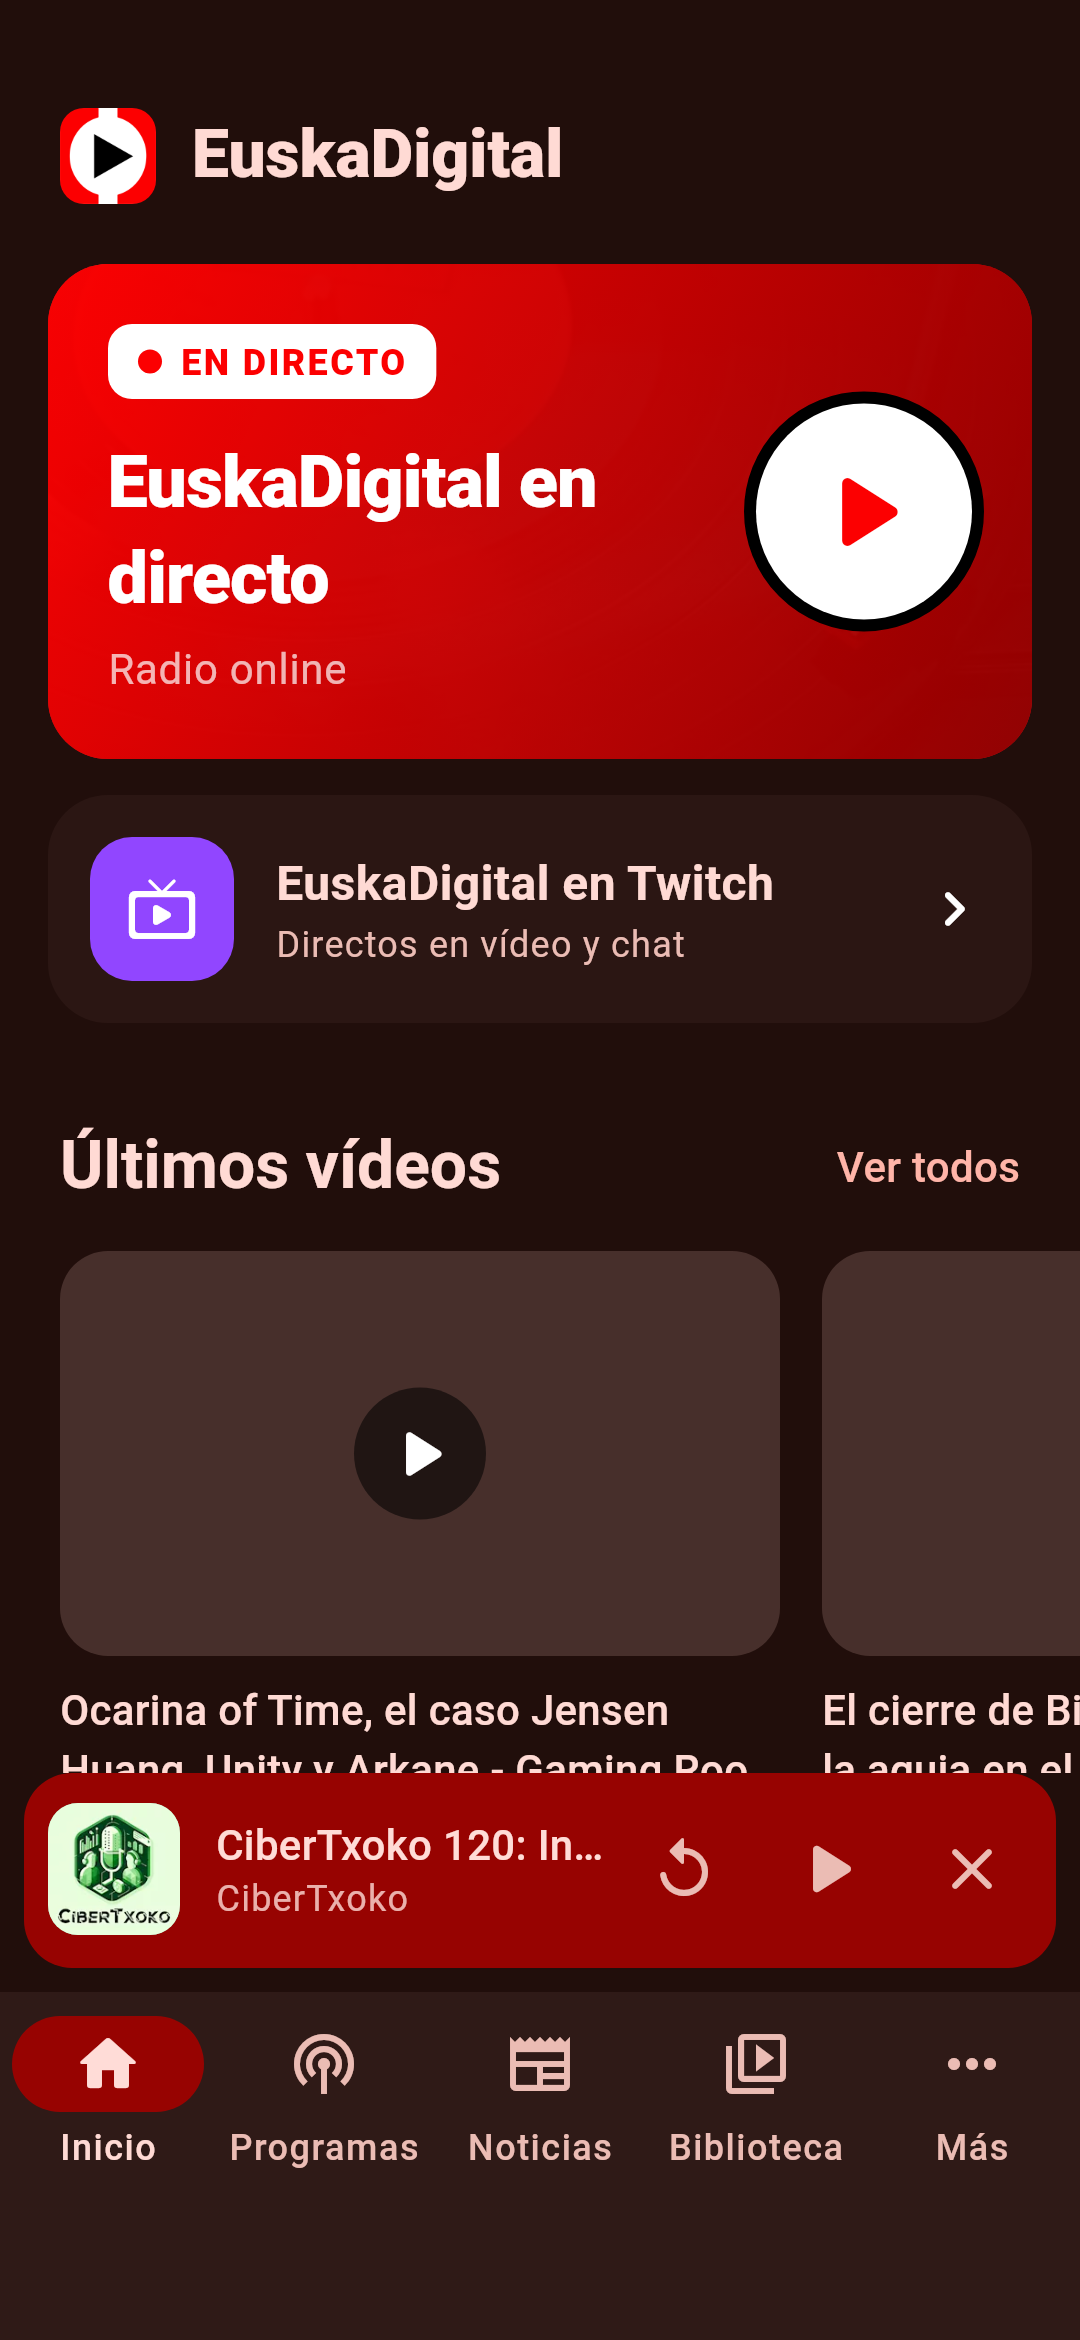
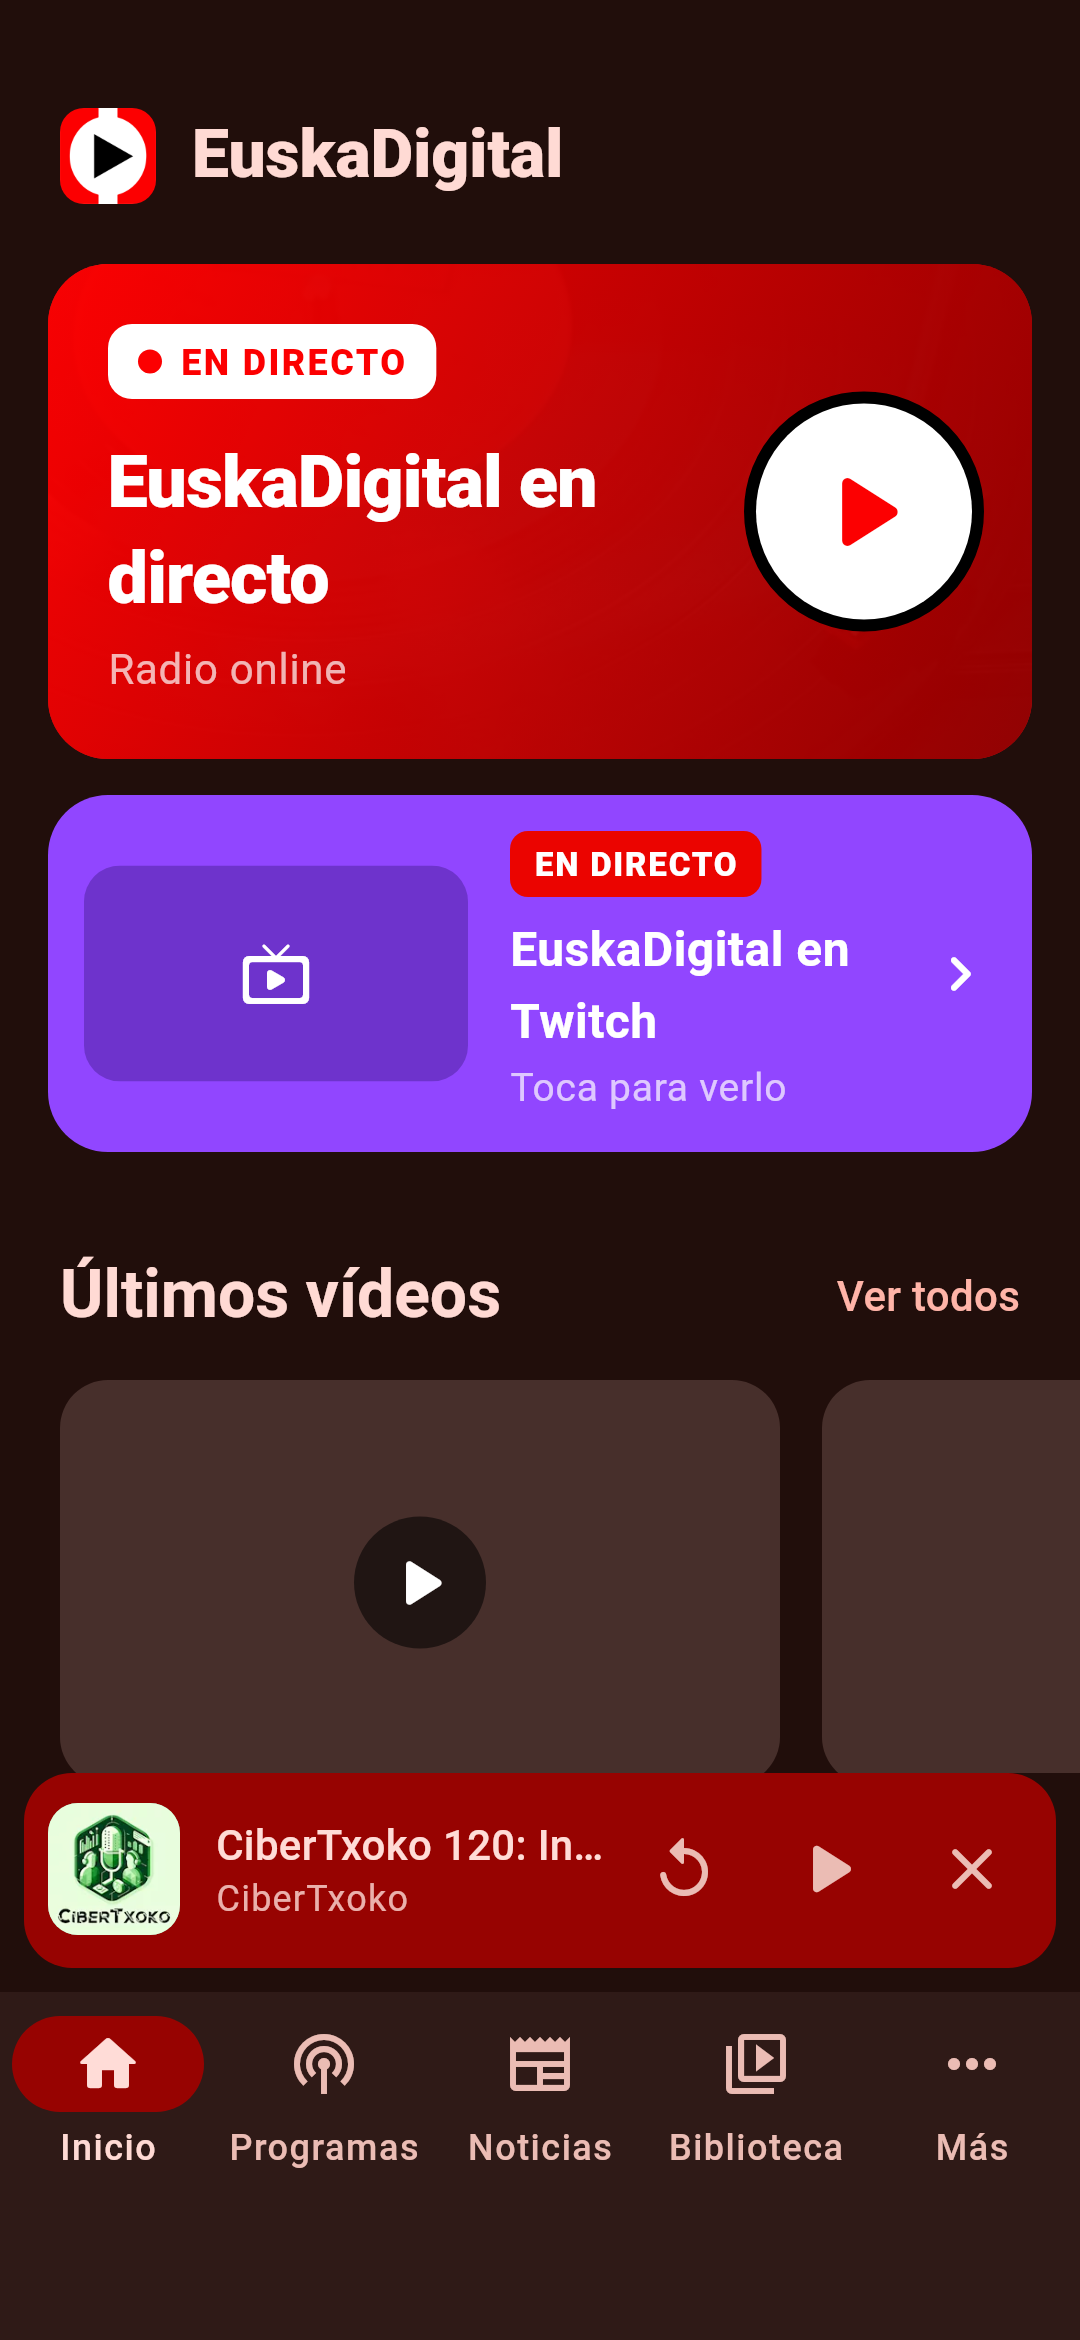
Twitch en Inicio solo durante los directos
- Servicio que detecta si el canal emite mediante la vista previa
  pública del CDN de Twitch (sin claves); comprueba al abrir, al volver
  a la app y cada 2 minutos en primer plano
- La tarjeta aparece solo en directo, con la imagen de la emisión
- El acceso a Twitch sigue en Más
- Tests de la detección con respuestas simuladas

Claude-Session: https://claude.ai/code/session_016dLWWhA75jkREqA1LiHKKV

Changed region(s): [[0.0306, 0.312, 1.0, 0.7799], [0.7639, 0.6863, 1.0, 0.7799]]

diff --git a/lib/ui/widgets/twitch_card.dart b/lib/ui/widgets/twitch_card.dart
@@ -1,10 +1,13 @@
+import 'package:cached_network_image/cached_network_image.dart';
 import 'package:flutter/material.dart';
 import 'package:provider/provider.dart';
 
 import '../../config/app_config.dart';
+import '../../services/twitch_live_service.dart';
 import '../screens/twitch_screen.dart';
 
-/// Acceso al canal de Twitch desde Inicio.
+/// Tarjeta de Inicio que solo aparece mientras el canal de Twitch está en
+/// directo, con la vista previa de la emisión.
 class TwitchCard extends StatelessWidget {
   const TwitchCard({super.key});
 
@@ -13,41 +16,87 @@ class TwitchCard extends StatelessWidget {
   @override
   Widget build(BuildContext context) {
     final twitch = context.read<AppConfig>().twitch;
-    if (twitch == null) return const SizedBox.shrink();
+    final live = context.watch<TwitchLiveService?>();
+    final visible = twitch != null && live != null && live.isLive;
     final theme = Theme.of(context);
-    return Padding(
-      padding: const EdgeInsets.fromLTRB(16, 12, 16, 0),
-      child: Card(
-        child: InkWell(
-          onTap: () => TwitchScreen.open(context, twitch),
-          child: Padding(
-            padding: const EdgeInsets.all(14),
-            child: Row(
-              children: [
-                Container(
-                  width: 48,
-                  height: 48,
-                  decoration: BoxDecoration(color: twitchPurple, borderRadius: BorderRadius.circular(14)),
-                  child: const Icon(Icons.live_tv_rounded, color: Colors.white),
-                ),
-                const SizedBox(width: 14),
-                Expanded(
-                  child: Column(
-                    crossAxisAlignment: CrossAxisAlignment.start,
-                    children: [
-                      Text(twitch.title, style: theme.textTheme.titleMedium),
-                      if (twitch.subtitle != null)
-                        Text(twitch.subtitle!,
-                            style: theme.textTheme.bodySmall?.copyWith(color: theme.colorScheme.onSurfaceVariant)),
-                    ],
+
+    return AnimatedSize(
+      duration: const Duration(milliseconds: 300),
+      curve: Curves.easeOutCubic,
+      child: !visible
+          ? const SizedBox(width: double.infinity)
+          : Padding(
+              padding: const EdgeInsets.fromLTRB(16, 12, 16, 0),
+              child: Card(
+                color: twitchPurple,
+                child: InkWell(
+                  onTap: () => TwitchScreen.open(context, twitch),
+                  child: Padding(
+                    padding: const EdgeInsets.all(12),
+                    child: Row(
+                      children: [
+                        ClipRRect(
+                          borderRadius: BorderRadius.circular(12),
+                          child: SizedBox(
+                            width: 128,
+                            child: AspectRatio(
+                              aspectRatio: 16 / 9,
+                              child: live.previewUrl == null
+                                  ? const ColoredBox(
+                                      color: Color(0xFF6E33CC),
+                                      child: Icon(Icons.live_tv_rounded, color: Colors.white),
+                                    )
+                                  : CachedNetworkImage(
+                                      imageUrl: live.previewUrl!,
+                                      fit: BoxFit.cover,
+                                      placeholder: (_, _) => const ColoredBox(color: Color(0xFF6E33CC)),
+                                      errorWidget: (_, _, _) => const ColoredBox(
+                                        color: Color(0xFF6E33CC),
+                                        child: Icon(Icons.live_tv_rounded, color: Colors.white),
+                                      ),
+                                    ),
+                            ),
+                          ),
+                        ),
+                        const SizedBox(width: 14),
+                        Expanded(
+                          child: Column(
+                            crossAxisAlignment: CrossAxisAlignment.start,
+                            children: [
+                              Container(
+                                padding: const EdgeInsets.symmetric(horizontal: 8, vertical: 3),
+                                decoration: BoxDecoration(
+                                  color: const Color(0xFFEB0400),
+                                  borderRadius: BorderRadius.circular(6),
+                                ),
+                                child: const Text(
+                                  'EN DIRECTO',
+                                  style: TextStyle(
+                                    color: Colors.white,
+                                    fontWeight: FontWeight.w800,
+                                    fontSize: 11,
+                                    letterSpacing: 0.6,
+                                  ),
+                                ),
+                              ),
+                              const SizedBox(height: 6),
+                              Text(
+                                twitch.title,
+                                maxLines: 2,
+                                overflow: TextOverflow.ellipsis,
+                                style: theme.textTheme.titleMedium?.copyWith(color: Colors.white),
+                              ),
+                              const Text('Toca para verlo', style: TextStyle(color: Colors.white70, fontSize: 13)),
+                            ],
+                          ),
+                        ),
+                        const Icon(Icons.chevron_right_rounded, color: Colors.white),
+                      ],
+                    ),
                   ),
                 ),
-                const Icon(Icons.chevron_right_rounded),
-              ],
+              ),
             ),
-          ),
-        ),
-      ),
     );
   }
 }

diff --git a/lib/services/twitch_live_service.dart b/lib/services/twitch_live_service.dart
@@ -1,0 +1,91 @@
+import 'dart:async';
+
+import 'package:flutter/widgets.dart';
+import 'package:http/http.dart' as http;
+
+/// Sabe si el canal de Twitch está emitiendo, sin claves de API.
+///
+/// Twitch publica una vista previa del directo de cada canal en su CDN. Si
+/// el canal no emite, esa dirección redirige a una imagen genérica de
+/// «desconectado»; si emite, devuelve la imagen. Se comprueba al abrir la
+/// app, al volver a ella y cada pocos minutos mientras está en primer plano.
+class TwitchLiveService extends ChangeNotifier with WidgetsBindingObserver {
+  TwitchLiveService(this.channel, {http.Client? client, bool autoStart = true})
+      : _client = client ?? http.Client() {
+    if (autoStart) {
+      WidgetsBinding.instance.addObserver(this);
+      check();
+      _startTimer();
+    }
+  }
+
+  static const _interval = Duration(minutes: 2);
+
+  final String channel;
+  final http.Client _client;
+  Timer? _timer;
+  bool _live = false;
+  DateTime _checkedAt = DateTime.fromMillisecondsSinceEpoch(0);
+
+  bool get isLive => _live;
+
+  /// Vista previa del directo (cambia la URL en cada comprobación para no
+  /// mostrar una imagen antigua de la caché).
+  String? get previewUrl => debugDisablePreview
+      ? null
+      : 'https://static-cdn.jtvnw.net/previews-ttv/live_user_$channel-640x360.jpg?t=${_checkedAt.millisecondsSinceEpoch ~/ 1000}';
+
+  /// Sin vista previa (las capturas no pueden cargar imágenes de red).
+  @visibleForTesting
+  bool debugDisablePreview = false;
+
+  String get _probeUrl => 'https://static-cdn.jtvnw.net/previews-ttv/live_user_$channel-80x45.jpg';
+
+  Future<void> check() async {
+    try {
+      final req = http.Request('GET', Uri.parse(_probeUrl))..followRedirects = false;
+      final res = await _client.send(req).timeout(const Duration(seconds: 15));
+      await res.stream.drain<void>();
+      final live = res.statusCode == 200 && (res.headers['content-type'] ?? '').startsWith('image/');
+      _checkedAt = DateTime.now();
+      if (live != _live) {
+        _live = live;
+        notifyListeners();
+      } else if (live) {
+        notifyListeners(); // refrescar la vista previa
+      }
+    } catch (e) {
+      // Sin conexión: se mantiene el último estado conocido.
+      debugPrint('No se ha podido comprobar el directo de Twitch: $e');
+    }
+  }
+
+  /// Fuerza el estado (capturas y tests).
+  @visibleForTesting
+  void debugSetLive(bool live) {
+    _live = live;
+    notifyListeners();
+  }
+
+  void _startTimer() {
+    _timer?.cancel();
+    _timer = Timer.periodic(_interval, (_) => check());
+  }
+
+  @override
+  void didChangeAppLifecycleState(AppLifecycleState state) {
+    if (state == AppLifecycleState.resumed) {
+      check();
+      _startTimer();
+    } else if (state == AppLifecycleState.paused) {
+      _timer?.cancel();
+    }
+  }
+
+  @override
+  void dispose() {
+    _timer?.cancel();
+    WidgetsBinding.instance.removeObserver(this);
+    super.dispose();
+  }
+}

diff --git a/test/screenshots/screenshots_test.dart b/test/screenshots/screenshots_test.dart
@@ -16,6 +16,7 @@ import 'package:euskadigital/services/feed_repository.dart';
 import 'package:euskadigital/services/library_store.dart';
 import 'package:euskadigital/services/player_service.dart';
 import 'package:euskadigital/services/settings_store.dart';
+import 'package:euskadigital/services/twitch_live_service.dart';
 import 'package:euskadigital/ui/app_shell.dart';
 import 'package:euskadigital/ui/screens/home_screen.dart';
 import 'package:euskadigital/ui/screens/player_screen.dart';
@@ -87,6 +88,7 @@ void main() {
   late FeedRepository feeds;
   late PlayerService player;
   late SharedPreferences prefs;
+  late TwitchLiveService twitchLive;
 
   setUpAll(() async {
     TestWidgetsFlutterBinding.ensureInitialized();
@@ -148,6 +150,10 @@ void main() {
     final continuing2 = feeds.state(config.allPrograms[0].id).items[0];
     library.saveProgress(continuing2, continuing2.duration! * 0.7, continuing2.duration);
     player = PlayerService(config, library, settings);
+    // Capturas con el canal «en directo» para mostrar la tarjeta.
+    twitchLive = TwitchLiveService('euskadigital', autoStart: false)
+      ..debugDisablePreview = true
+      ..debugSetLive(config.twitch != null);
   });
 
   Widget app(ThemeMode mode) => MultiProvider(
@@ -157,6 +163,7 @@ void main() {
           ChangeNotifierProvider.value(value: library),
           ChangeNotifierProvider.value(value: feeds),
           ChangeNotifierProvider(create: (_) => AlertsStore(prefs)),
+          ChangeNotifierProvider<TwitchLiveService?>.value(value: twitchLive),
           ChangeNotifierProvider(create: (_) => DownloadManager(library, settings)),
           ChangeNotifierProvider.value(value: player),
         ],

diff --git a/test/twitch_live_service_test.dart b/test/twitch_live_service_test.dart
@@ -1,0 +1,40 @@
+import 'package:euskadigital/services/twitch_live_service.dart';
+import 'package:flutter_test/flutter_test.dart';
+import 'package:http/http.dart' as http;
+import 'package:http/testing.dart';
+
+void main() {
+  TestWidgetsFlutterBinding.ensureInitialized();
+
+  TwitchLiveService service(http.Response Function(http.Request) respond) =>
+      TwitchLiveService('euskadigital', client: MockClient((r) async => respond(r)), autoStart: false);
+
+  test('en directo cuando la vista previa devuelve una imagen', () async {
+    final s = service((_) => http.Response.bytes([0xFF, 0xD8], 200, headers: {'content-type': 'image/jpeg'}));
+    await s.check();
+    expect(s.isLive, isTrue);
+  });
+
+  test('desconectado cuando Twitch redirige a la imagen genérica', () async {
+    final s = service((_) => http.Response('', 302, headers: {
+          'location': 'https://static-cdn.jtvnw.net/ttv-static/404_preview-80x45.jpg',
+          'content-type': 'text/html',
+        }));
+    await s.check();
+    expect(s.isLive, isFalse);
+  });
+
+  test('sin conexión mantiene el último estado', () async {
+    var fail = false;
+    final s = TwitchLiveService('euskadigital',
+        autoStart: false,
+        client: MockClient((_) async {
+          if (fail) throw http.ClientException('sin red');
+          return http.Response.bytes([1], 200, headers: {'content-type': 'image/jpeg'});
+        }));
+    await s.check();
+    fail = true;
+    await s.check();
+    expect(s.isLive, isTrue);
+  });
+}

diff --git a/lib/main.dart b/lib/main.dart
@@ -14,6 +14,7 @@ import 'services/feed_repository.dart';
 import 'services/library_store.dart';
 import 'services/player_service.dart';
 import 'services/settings_store.dart';
+import 'services/twitch_live_service.dart';
 import 'ui/app_shell.dart';
 import 'ui/theme.dart';
 
@@ -53,6 +54,10 @@ Future<void> main() async {
       ChangeNotifierProvider.value(value: library),
       ChangeNotifierProvider.value(value: feeds),
       ChangeNotifierProvider(create: (_) => AlertsStore(prefs)),
+      if (config.twitch != null)
+        ChangeNotifierProvider<TwitchLiveService?>(create: (_) => TwitchLiveService(config.twitch!.channel))
+      else
+        Provider<TwitchLiveService?>.value(value: null),
       ChangeNotifierProvider(create: (_) => DownloadManager(library, settings)),
       ChangeNotifierProvider(create: (_) => PlayerService(config, library, settings), lazy: false),
     ],
